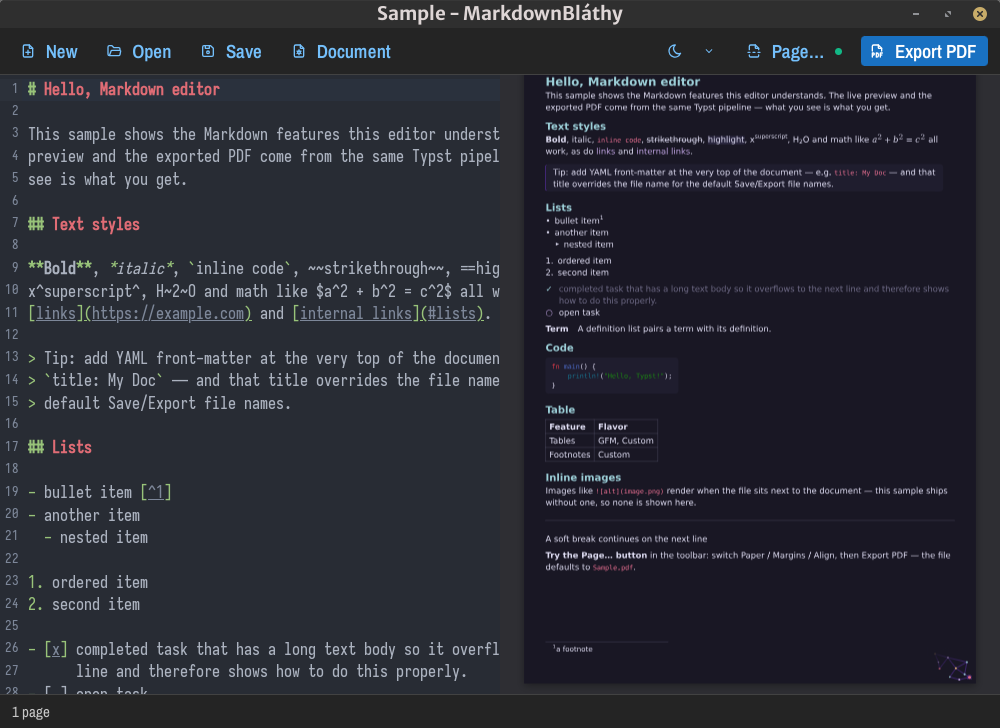
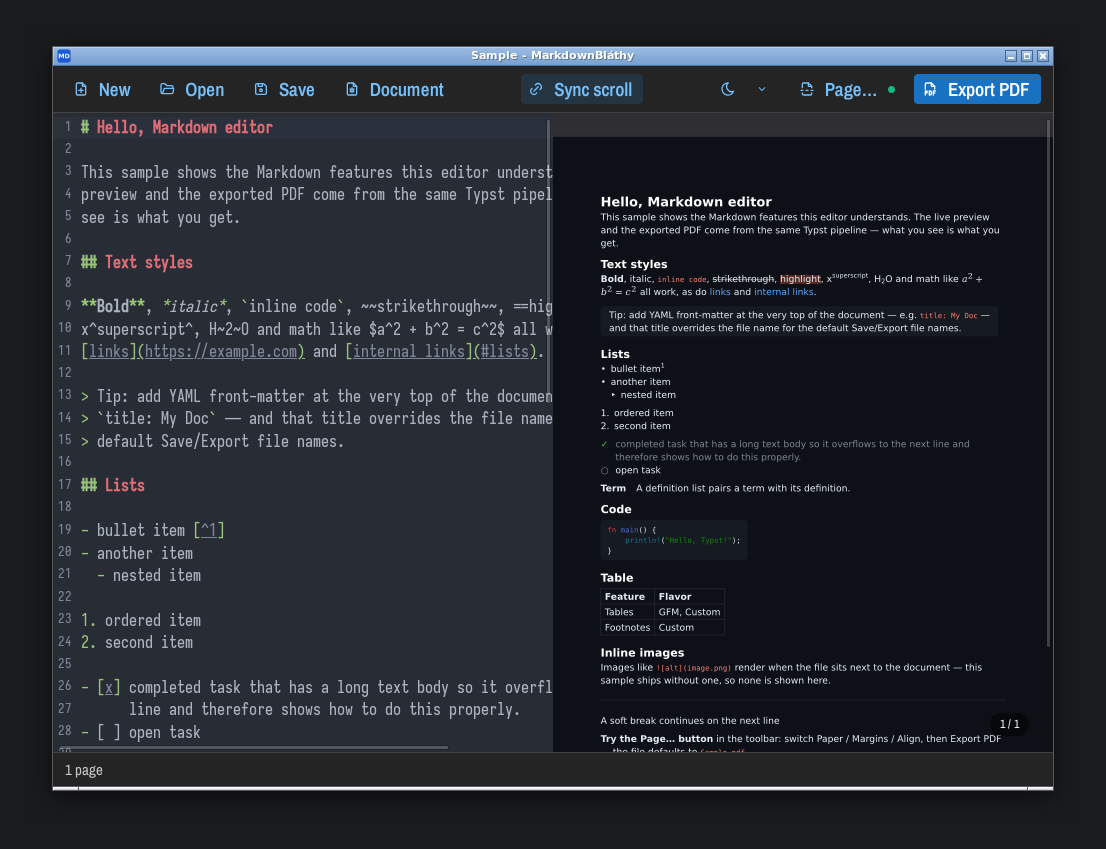
chore(release): v1.1.0
Synchronized editor/preview scrolling, a non-blocking PNG-raster preview with
clickable link overlays, and the M9 data-safety work (save in place, unsaved
guard, autosave recovery, export warnings). Regenerate docs/screenshots
headlessly via scripts/screenshots.sh (documented in CONTRIBUTING.md); bump
version across the Cargo workspace, package.json, Tauri config and metainfo,
point screenshot URLs at v1.1.0, and add the git-cliff changelog section and
metainfo release entry.

Changed region(s): [[0.0, 0.0, 0.992, 0.9973]]

diff --git a/CONTRIBUTING.md b/CONTRIBUTING.md
@@ -77,11 +77,11 @@ M8 task 2), so they must be in the tagged commit.
 - **git-cliff** — changelog from the conventional-commit history
   (`cargo install git-cliff --locked`, or your package manager). Configured by
   `cliff.toml` in the repo root (v-prefixed tag pattern, header marker).
-- **Screenshot capture** — WebdriverIO with `@wdio/tauri-service` (default
-  embedded provider via `tauri-plugin-wdio-webdriver`; `tauri-driver` +
-  `webkit2gtk-driver` works on Linux too), plus `xvfb`, `openbox`/`mutter`,
-  `picom`, `xdotool`, `maim` (or ImageMagick `import`) and ImageMagick. See
-  <https://v2.tauri.app/develop/tests/webdriver/>.
+- **Screenshot capture** — `scripts/screenshots.sh` drives the real app
+  headlessly (Xvfb + openbox + tauri-driver/WebDriver) and composites the
+  window onto a white background with a soft shadow via ImageMagick. Requires
+  `xvfb xauth dbus-x11 openbox maim xdotool imagemagick webkit2gtk-driver
+  tauri-driver` plus Node. See step 2.
 
 ### 1. Pre-flight
 
@@ -98,22 +98,30 @@ cut on a side branch leaves the Actions tab rebuilding the previous version.
 ### 2. Refresh the screenshots
 
 Screenshots always come from the real binary — a mocked `render_preview`
-cannot reproduce Typst layout, and someone has to pick a good window state
-and content.
+cannot reproduce Typst layout. `scripts/screenshots.sh` regenerates all four
+`docs/screenshots/` images headlessly and reproducibly:
 
-1. Start the release binary on a virtual display with a window manager and
-   compositor (`picom`) so the window gets its native shadow. Pass the
-   document to show as a positional path (`target/release/MarkdownBláthy
-   docs/demo.md`, or `markdown-blathy docs/demo.md`); with no argument the app
-   shows the built-in sample.
-2. Drive it to the state to show (open the Document or Page popover, …) and
-   wait for the render.
-3. Capture the app window by id with `maim` (ImageMagick `import` works
-   too) — `browser.takeScreenshot()` only captures the webview viewport.
-4. Follow Flathub's screenshot quality guidelines: window-only, no desktop
-   background, native shadow and rounded corners, ~1000×700 (2000×1400
-   HiDPI), one-sentence captions, first screenshot `type="default"`.
-5. Save to `docs/screenshots/` and update the metainfo `<screenshots>`.
+```bash
+npm run build
+cargo build -p markdown-blathy-tauri --features tauri/custom-protocol
+scripts/screenshots.sh        # or pass a release binary path as $1
+```
+
+It starts Xvfb + openbox (a window manager, for the title bar), launches the
+app through tauri-driver, and drives it via WebDriver to each state — light
+main screen, Document popover, Page popover, dark main screen — reloading
+between states so popovers never leak into later shots. Each shot is a
+full-screen `maim` grab trimmed to the window (title bar included) and
+composited onto white with a soft shadow by ImageMagick, so the result is
+independent of the root window color or a running compositor. App data is
+isolated per run, so persisted settings (e.g. the theme) never leak between
+runs.
+
+To change the content or the captured states, edit `scripts/screenshots.mjs`
+(the WebDriver driver). Follow Flathub's screenshot quality guidelines:
+window-only, no desktop background, ~1000×700, one-sentence captions, first
+screenshot `type="default"`. Update the metainfo `<screenshots>` URLs to the
+new tag.
 
 Validate the metainfo locally with `AS_VALIDATE_NONET=1` set —
 `appstreamcli` otherwise fetches the screenshot URLs, which do not resolve
@@ -132,10 +140,11 @@ rewrites the whole file — do not use it for routine releases.) The
 `cliff.toml` `header_marker` lets git-cliff replace a templated header on
 later runs without disturbing the body.
 
-The repo has no tags yet, so the first run covers the whole history. For that
-first run only, `CHANGELOG.md` does not exist yet and `--prepend` cannot
-create it — use `--output CHANGELOG.md` once, then switch to `--prepend` for
-every later release. Commits follow conventional commits (`feat:`,
+Releases are bounded by the previous version tag, so `--unreleased --tag
+"$VERSION"` covers exactly the commits since the last release. (For a brand-new
+repo with no tags and no `CHANGELOG.md`, `--prepend` cannot create the file —
+use `--output CHANGELOG.md` once, then `--prepend` for every later release.)
+Commits follow conventional commits (`feat:`,
 `fix(scope):`, `refactor:`, `chore:`, `doc:`); any commit git-cliff reports as
 skipped (e.g. a subject with a parenthetical it misreads as a body) must be
 added to the section by hand. Add the matching

diff --git a/CHANGELOG.md b/CHANGELOG.md
@@ -1,4 +1,38 @@
 Changelog
+## [1.1.0] - 2026-11-20
+
+### 🚀 Features
+
+- *(files)* Save in place on Mod+S, Save As on Mod+Shift+S
+- *(ui)* Guard unsaved changes on close, new and open
+- *(recovery)* Autosave snapshots and startup restore
+- *(export)* Surface compile warnings after PDF export
+- *(preview)* Single cached render + virtualized page list
+- *(preview)* Current/total page badge in the preview pane
+- *(ui)* Synchronized editor/preview scrolling via leaf-block source anchors
+- *(preview)* Render pages as PNG rasters for non-blocking scrolling
+
+### 🐛 Bug Fixes
+
+- Documentation lags were fixed
+- *(ui)* Drop the non-functional Custom margin preset
+- *(ci)* Build the smoke-test binary with custom-protocol and require a render
+
+### 📚 Documentation
+
+- Mark M9 done and reconcile the save/recovery documentation
+
+### ⚡ Performance
+
+- *(ui)* Make the preview render cycle debounced and single-flight
+- *(ui)* Cache scroll-sync interpolation knots per source map and geometry
+
+### ⚙ Miscellaneous Tasks
+
+- *(headless)* Gate the GUI on an Xvfb smoke test
+- *(deny)* Ignore the chrono unmaintained advisory
+- *(recovery)* Keep the AppHandle out of command tracing spans
+
 ## [1.0.0] - 2026-11-01
 
 ### 🚀 Features
